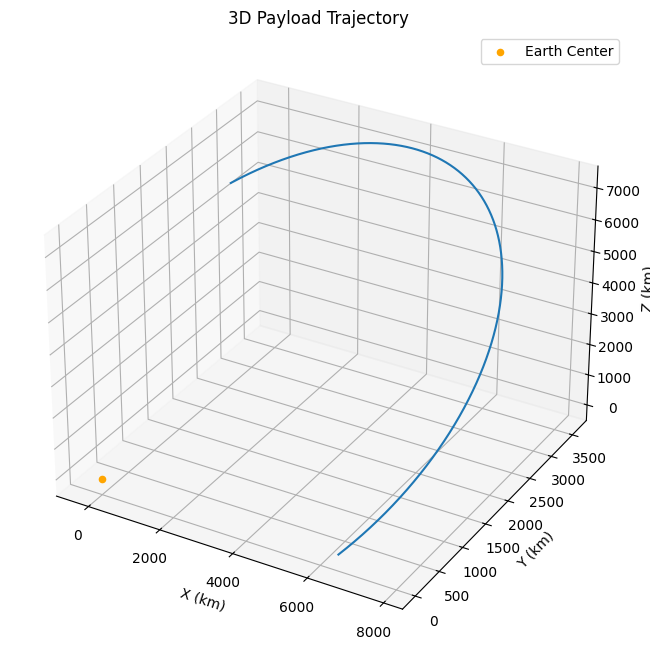
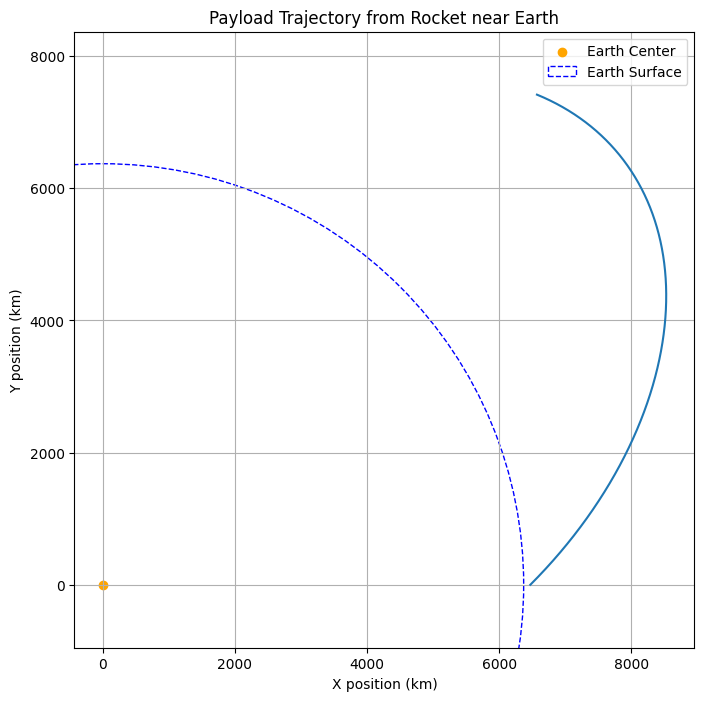
correction

diff --git a/docs/1 Physics/2 Gravity/Problem_3.md b/docs/1 Physics/2 Gravity/Problem_3.md
@@ -37,6 +37,10 @@ We solve this using numerical integration (e.g., Runge-Kutta or Euler method).
 Trajectory of Payload near Earth
 ![alt text](image-2.png)
 
+3D Trajectory Visualization (Advanced)
+For a more comprehensive view, simulate the 3D trajectory and plot it.
+![alt text](image-5.png)
+
 ## 🚀 Analysis of Results
 
 Depending on initial velocity and altitude:
@@ -52,14 +56,12 @@ Depending on initial velocity and altitude:
 ## 🌌 Real-World Relevance
 
 * **Satellite Deployment**: Accurate velocity ensures stable orbits.
+![alt text](image-4.png)
+
 * **Space Station Docking**: Predicting relative trajectories.
 * **Reentry and Recovery**: Safe return paths for crew or payload.
 * **Interplanetary Travel**: Planning escape trajectories and transfer orbits.
 
 ---
 
-## 📆 Deliverables
 
-* A Markdown document with Python script or notebook implementing the simulations.
-* Detailed explanation of the subject.
-* Graphical representations of orbital trajectories, escape velocities, and payload trajectories near Earth.

diff --git a/docs/1 Physics/2 Gravity/Problem_2.md b/docs/1 Physics/2 Gravity/Problem_2.md
@@ -72,7 +72,6 @@ Where $M_{\odot}$ is the Sun’s mass and $r_{\text{orbit}}$ is Earth’s orbita
 ### 🚗 Satellite Launch
 
 First cosmic velocity is essential for establishing orbit.
-![alt text](image-5.png)
 
 ### 🌌 Planetary Missions
 
@@ -81,8 +80,3 @@ Second cosmic velocity needed to leave planet’s gravity and travel to other pl
 ### 🌟 Interstellar Travel
 
 Third cosmic velocity needed to break free from solar system—key for theoretical probes like Voyager or future missions to Alpha Centauri.
-
-# Some visualizations
-### 3D Trajectory Visualization (Advanced)
-For a more comprehensive view, simulate the 3D trajectory and plot it.
-![alt text](image-4.png)
